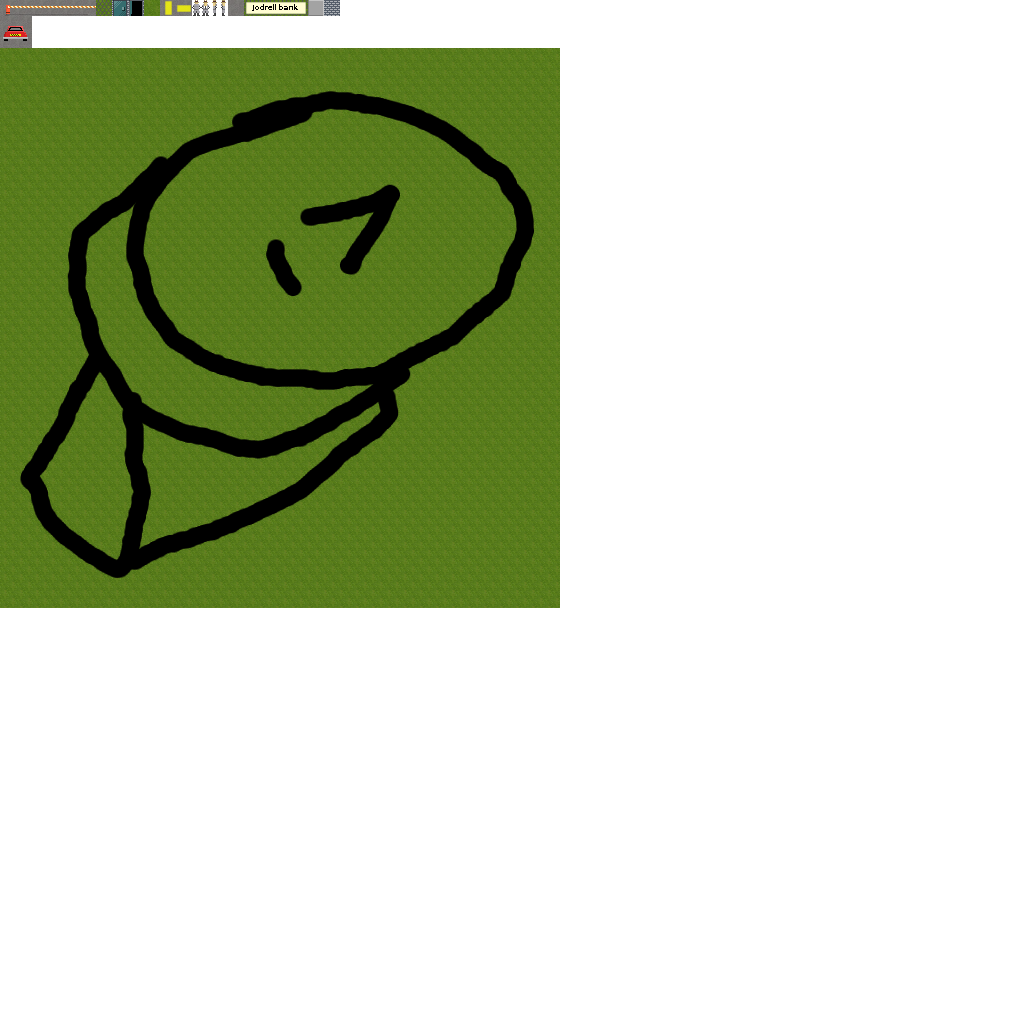
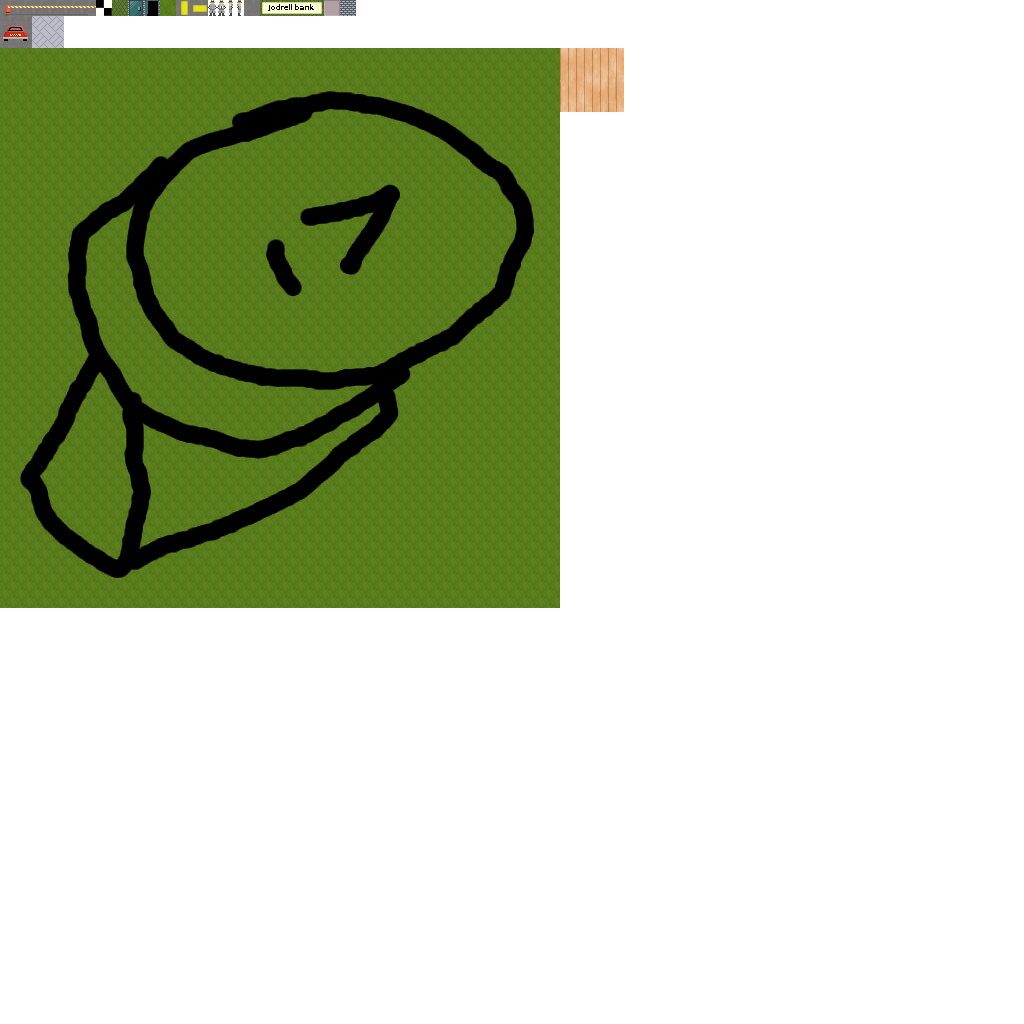
Added some new tile types for decoration

Changed region(s): [[0.5312, 0.0312, 0.625, 0.125], [0.0938, 0.0, 0.3438, 0.0312], [0.0312, 0.0, 0.0625, 0.0625]]

diff --git a/game_view.py b/game_view.py
@@ -122,6 +122,9 @@ class TileTypes:
     CAR                = 12
     ROAD_MARKING_HORIZ = 13
     DISH               = 14
+    WOOD               = 15
+    BATHROOM_TILE      = 16
+    LAB_TILE           = 17
 
     Doors      = set((DOOR_CLOSED,DOOR_OPEN))
     Computers  = set()
@@ -142,6 +145,9 @@ class TileData(object):
                      TileTypes.BARRIER       : 'barrier.png',
                      TileTypes.CAR           : 'car.png',
                      TileTypes.DISH          : 'dish.png',
+                     TileTypes.WOOD          : 'wood.png',
+                     TileTypes.BATHROOM_TILE : 'bathroom_tile.png',
+                     TileTypes.LAB_TILE      : 'labtile.png',
                      }
     
     def __init__(self,type,pos):
@@ -198,7 +204,10 @@ class GameMap(object):
                      'p' : TileTypes.PLAYER,
                      'v' : TileTypes.CAR,
                      'D' : TileTypes.DISH,
-                     'b' : TileTypes.BARRIER,}
+                     'w' : TileTypes.WOOD,
+                     't' : TileTypes.BATHROOM_TILE,
+                     'b' : TileTypes.BARRIER,
+                     'l' : TileTypes.LAB_TILE}
     def __init__(self,name):
         self.size   = Point(124,76)
         self.data   = [[TileTypes.GRASS for i in xrange(self.size.y)] for j in xrange(self.size.x)]
